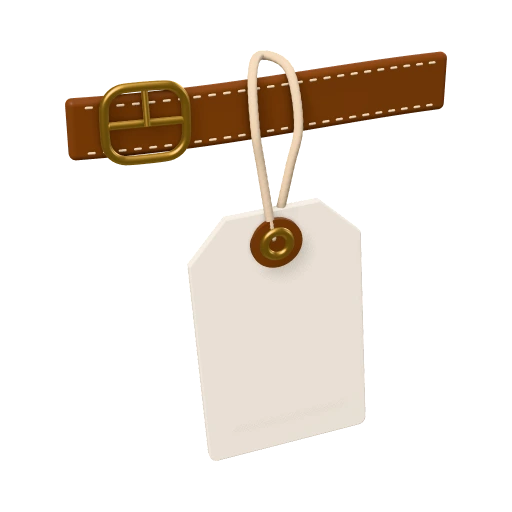
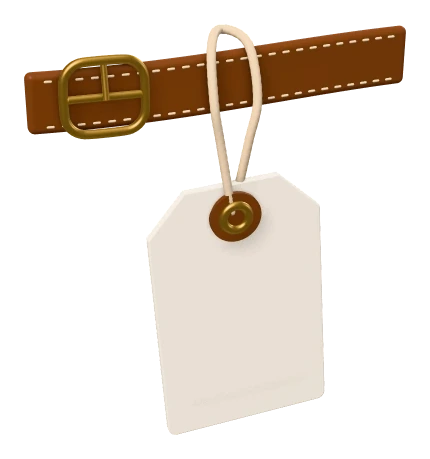
feat(art): 3D bricks, storm cards, traits, and the fixed rope, pitches and zones
The six navigation bricks (navy toy plastic, each instrument on its face),
the four storm-call cards, the eight traits and both born/built icons;
plus the redesigned 'Present to clients' rope (a flat coil with a
carabiner, nothing noose-like), five pitch tiles at equal weight, and the
four pitch-zone figures on one character model. Every object render is
trimmed to its bounds so it fills its tile. Bricks in a lane or as a
carry-forward ghost use the same render. The rope's clips stay drawn:
they are drop targets placed on the drawing.

Changed region(s): [[0.0302, 0.0305, 0.9674, 0.9455], [0.4233, 0.3965, 0.4837, 0.427]]

diff --git a/src/game/art/sprites.ts b/src/game/art/sprites.ts
@@ -1,30 +1,60 @@
 /* Generated by scripts/sprites.mjs from public/game/3d. Do not edit by hand.
    key -> [width, height] of the 3D render. */
 export const SPRITES: Record<string, readonly [number, number]> = {
-  'bench-rerig-spliced': [512, 512],
-  'bench-rerig': [512, 512],
-  'fu-door-ajar': [512, 512],
-  'fu-door-open': [512, 512],
-  'fu-door': [512, 512],
-  'fu-plaque': [512, 512],
-  'gear-binoculars': [512, 512],
-  'gear-bootlaces': [512, 512],
-  'gear-boulder': [512, 512],
-  'gear-crampons': [512, 512],
-  'gear-flare': [512, 512],
-  'gear-forms': [512, 512],
-  'gear-logbook': [512, 512],
-  'gear-manual': [512, 512],
-  'gear-polish': [512, 512],
-  'gear-stove': [512, 512],
-  'gear-thermos': [512, 512],
-  'hand-zone-closed': [512, 512],
-  'hand-zone': [512, 512],
-  'luggage-tag': [512, 512],
-  'rucksack-zipped': [512, 512],
-  'rucksack': [512, 512],
+  'bench-rerig-spliced': [512, 329],
+  'bench-rerig': [512, 329],
+  'brick-brief': [512, 295],
+  'brick-compass': [512, 295],
+  'brick-gps': [512, 295],
+  'brick-guidebook': [512, 295],
+  'brick-map': [512, 295],
+  'brick-radio': [512, 308],
+  'card-agents': [319, 509],
+  'card-aiclient': [481, 504],
+  'card-certify': [424, 494],
+  'card-freedtime': [512, 506],
+  'clientmail': [512, 258],
+  'fu-door-ajar': [433, 494],
+  'fu-door-open': [433, 494],
+  'fu-door': [433, 494],
+  'fu-plaque': [481, 344],
+  'gear-binoculars': [477, 381],
+  'gear-bootlaces': [389, 407],
+  'gear-boulder': [452, 440],
+  'gear-crampons': [487, 485],
+  'gear-flare': [344, 488],
+  'gear-forms': [373, 487],
+  'gear-leadrope': [487, 310],
+  'gear-logbook': [512, 260],
+  'gear-manual': [512, 320],
+  'gear-polish': [441, 433],
+  'gear-stove': [435, 487],
+  'gear-thermos': [310, 474],
+  'hand-zone-closed': [488, 416],
+  'hand-zone': [488, 383],
+  'luggage-tag': [430, 459],
+  'onboard': [512, 255],
+  'origin-bootprint': [512, 389],
+  'origin-seed': [512, 399],
+  'pitch-crmnotes': [512, 270],
+  'pitchbook': [493, 261],
+  'reviewpack': [507, 260],
+  'rucksack-zipped': [431, 411],
+  'rucksack': [416, 412],
   'scene-basecamp': [1170, 1980],
-  'signpost': [512, 512],
-  'tarp-out-folded': [512, 512],
-  'tarp-out': [512, 512],
+  'signpost': [449, 478],
+  'tarp-out-folded': [512, 318],
+  'tarp-out': [512, 270],
+  'trait-bounce': [483, 511],
+  'trait-calm': [361, 510],
+  'trait-curiosity': [509, 408],
+  'trait-depth': [512, 512],
+  'trait-hunter': [481, 510],
+  'trait-judgement': [493, 510],
+  'trait-reading': [512, 511],
+  'trait-story': [512, 497],
+  'zone-crew': [506, 472],
+  'zone-kitdrafts': [378, 394],
+  'zone-ownfeet': [354, 468],
+  'zone-withkit': [358, 435],
 }

diff --git a/src/game/art/index.tsx b/src/game/art/index.tsx
@@ -55,7 +55,12 @@ function spriteFor(id: string, state?: string, value?: number): string | null {
     const k = value < 0.34 ? 'fu-door' : value < 0.67 ? 'fu-door-ajar' : 'fu-door-open'
     return SPRITES[k] ? k : null
   }
-  if (state) return SPRITES[`${id}-${state}`] ? `${id}-${state}` : null
+  if (state) {
+    if (SPRITES[`${id}-${state}`]) return `${id}-${state}`
+    // a navigation brick in a lane ('label') or its faded carry-forward ('ghost') is still that brick
+    if (id.startsWith('brick-') && (state === 'label' || state === 'ghost') && SPRITES[id]) return id
+    return null
+  }
   return SPRITES[id] ? id : null
 }
 
@@ -72,7 +77,8 @@ function Sprite({ id, file, ...p }: ArtProps & { id: string; file: string }) {
   return (
     <svg viewBox={`0 0 ${sw} ${sh}`} width={w} height={h} data-art={id} data-sprite={file}
       preserveAspectRatio={scene ? 'xMidYMax slice' : 'xMidYMid meet'}
-      className={p.className} style={{ display: 'block', overflow: 'visible', pointerEvents: 'none', ...p.style }}
+      className={p.className}
+      style={{ display: 'block', overflow: 'visible', pointerEvents: 'none', opacity: p.state === 'ghost' ? 0.35 : undefined, ...p.style }}
       {...a11y}>
       <image href={`/game/3d/${file}.webp`} width={sw} height={sh} />
     </svg>
